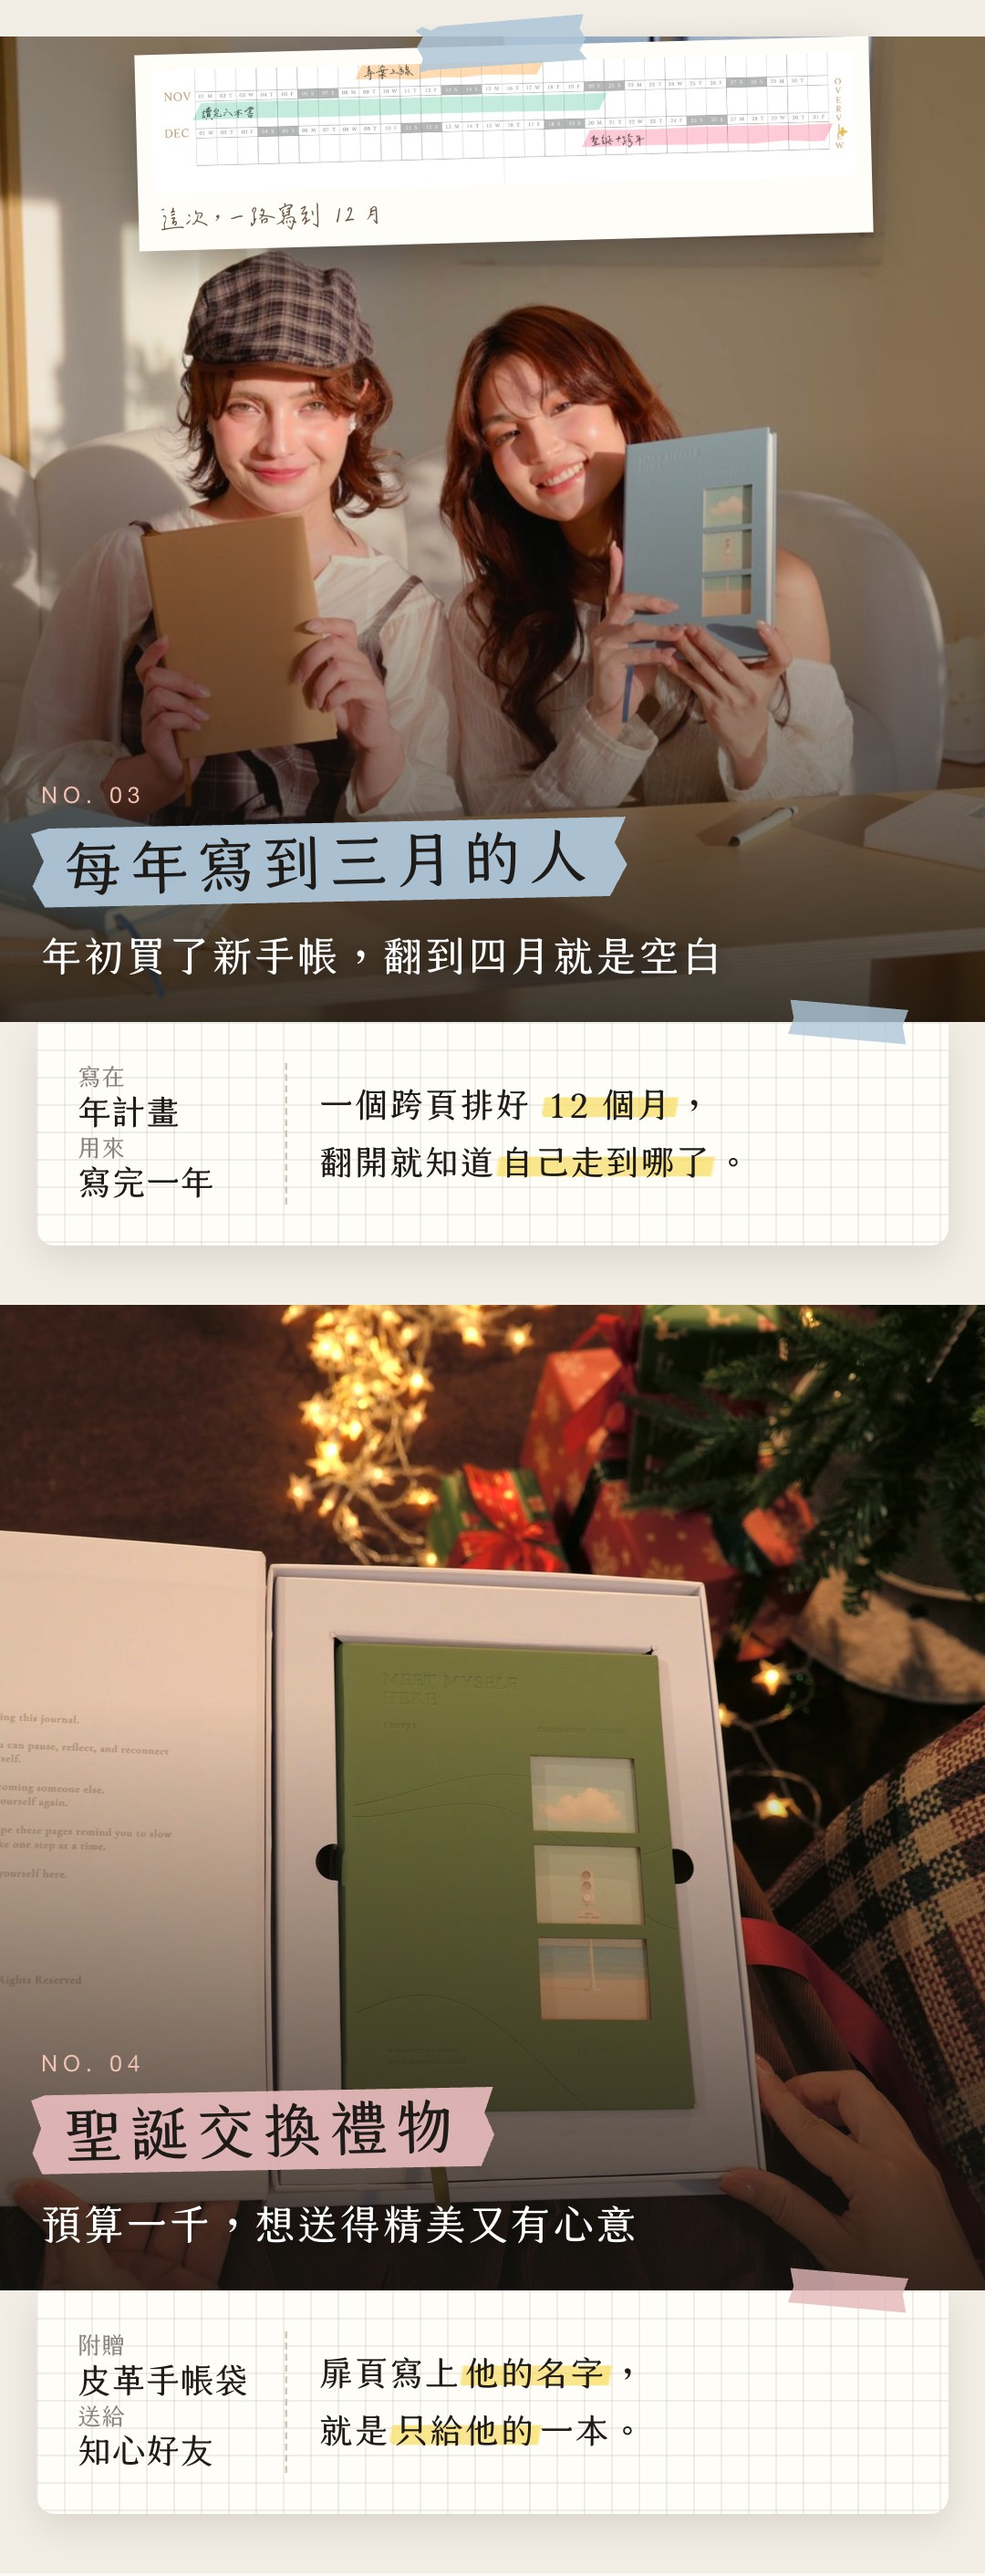
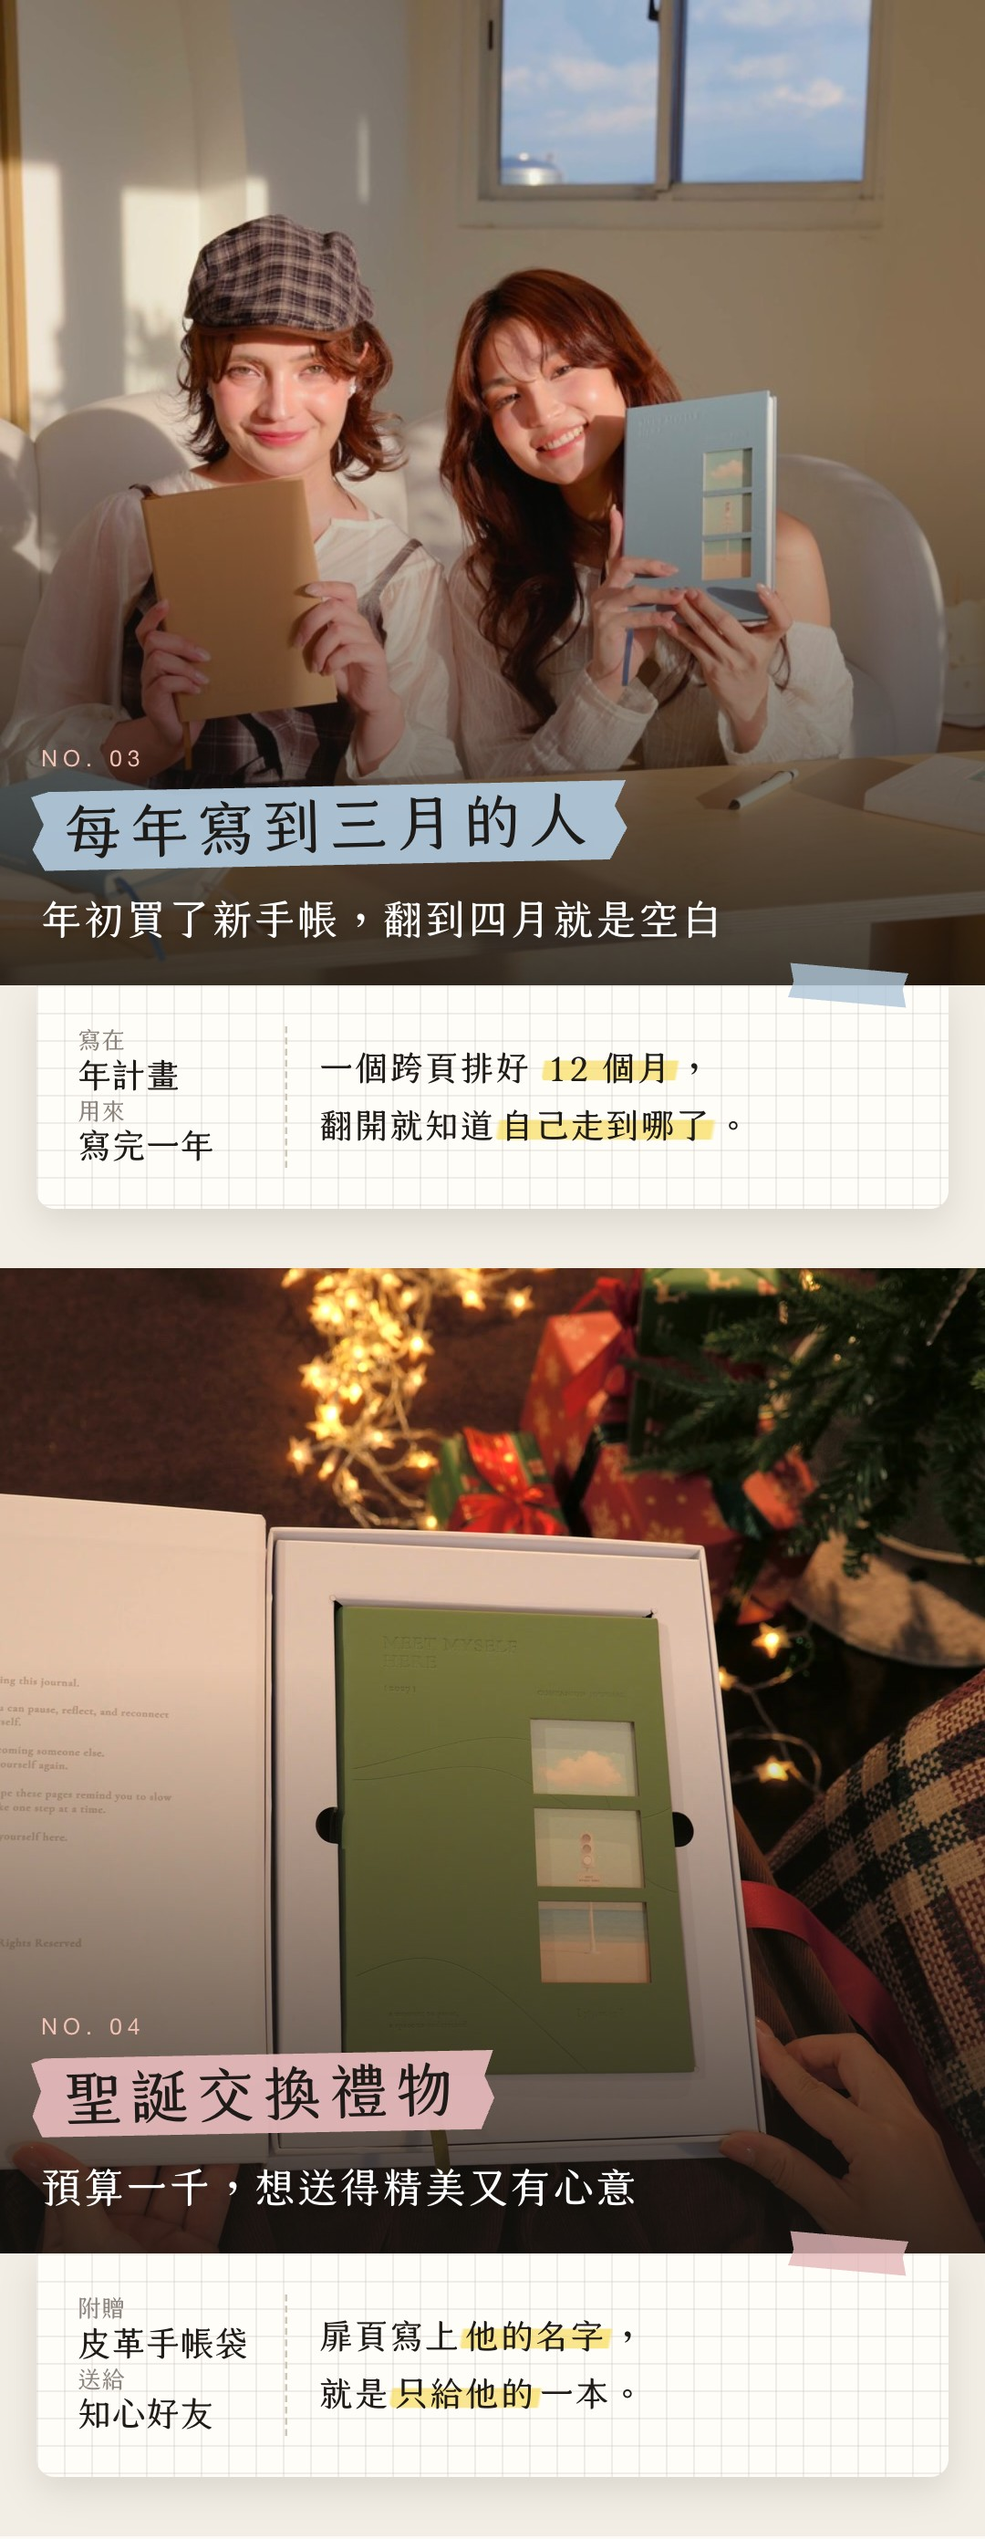
手帳 v11：受眾卡拿掉內頁紙條

diff --git a/_原始檔/v11/page.html b/_原始檔/v11/page.html
@@ -218,7 +218,7 @@ h2{font-size:27px;line-height:1.38;color:var(--ink);text-align:center;letter-spa
   box-shadow:0 1px 2px rgba(0,0,0,.06)}
 .tape.dot{background-image:radial-gradient(rgba(255,255,255,.75) 1.4px,transparent 1.6px);background-size:7px 7px}
 .gridpaper{background-color:#FFFDF8;background-image:linear-gradient(var(--grid) 1px,transparent 1px),linear-gradient(90deg,var(--grid) 1px,transparent 1px);background-size:12px 12px}
-#s03{padding-bottom:0}#s03a{background:var(--paper2);padding:16px 0 26px}#s03 .cd:last-child{margin-bottom:10px!important}
+#s03{padding-bottom:0}#s03a{background:var(--paper2);padding:0 0 26px}
 #s03 .cd,#s03a .cd{margin-bottom:26px}#s03a .cd:last-child{margin-bottom:0}
 .cd .ov .who{border:0;font-size:26px;color:var(--ink);padding:3px 14px 2px;position:relative;margin:6px 0 2px -4px;transform:rotate(-1.5deg);letter-spacing:.12em}
 .cd .ov .who:before{content:"";position:absolute;inset:0;z-index:-1;background:var(--c,var(--tape));opacity:.95;
@@ -311,11 +311,11 @@ h2{font-size:27px;line-height:1.38;color:var(--ink);text-align:center;letter-spa
   <div class="eyebrow">誰適合這本手帳？</div>
   <h2>聖誕禮物 x 交換禮物<br><span class="mark">送禮送到心坎裡</span></h2>
   <div class="lead">一天寫一點，365 天，<br>一整年都是他自己的樣子。</div>
-  <div class="cd" style="--c:var(--tape)"><div class="ph" style="background-image:url(img/q1.jpg)"><div class="note" style="left:12px;top:12px;width:158px;transform:rotate(-3deg)"><span class="tape" style="--c:var(--tape)"></span><img src="img/n_week.jpg"><div class="lb">她的週計畫</div></div><div class="ov"><div class="no en">NO. 01</div><div class="who">行程控上班族</div><h3>開會、待辦、生活瑣事，都寫在同一頁</h3></div></div>
-<div class="tk"><div class="route"><div>寫在<b>週計畫</b></div><div>用來<b>排行程</b></div></div><div><p>左頁<mark>排行程</mark>，右頁<mark>畫進度</mark>，<br>每打一個勾都<mark>好療癒</mark>。</p></div></div></div><div class="cd" style="--c:var(--tape2)"><div class="ph" style="background-image:url(img/q2.jpg)"><div class="note" style="left:164px;top:10px;width:258px;transform:rotate(2.5deg)"><span class="tape" style="--c:var(--tape2)"></span><img src="img/n_reflect.jpg"><div class="lb">她的 1 月覺察</div></div><div class="ov"><div class="no en">NO. 02</div><div class="who">想更懂自己的人</div><h3>每月覺察引導，<br>不只忙碌安排生活、也靜心傾聽自己</h3></div></div>
+  <div class="cd" style="--c:var(--tape)"><div class="ph" style="background-image:url(img/q1.jpg)"><div class="ov"><div class="no en">NO. 01</div><div class="who">行程控上班族</div><h3>開會、待辦、生活瑣事，都寫在同一頁</h3></div></div>
+<div class="tk"><div class="route"><div>寫在<b>週計畫</b></div><div>用來<b>排行程</b></div></div><div><p>左頁<mark>排行程</mark>，右頁<mark>畫進度</mark>，<br>每打一個勾都<mark>好療癒</mark>。</p></div></div></div><div class="cd" style="--c:var(--tape2)"><div class="ph" style="background-image:url(img/q2.jpg)"><div class="ov"><div class="no en">NO. 02</div><div class="who">想更懂自己的人</div><h3>每月覺察引導，<br>不只忙碌安排生活、也靜心傾聽自己</h3></div></div>
 <div class="tk"><div class="route"><div>寫在<b>每月覺察</b></div><div>用來<b>認識自己</b></div></div><div><p><mark>12 個自我覺察主題</mark>，<br>跟著提問寫，<mark>不怕不知道怎麼寫</mark>。</p></div></div></div>
 </section>
-<section id="s03a"><div class="cd" style="--c:var(--tape3)"><div class="ph" style="background-image:url(img/q4.jpg)"><div class="note" style="left:60px;top:4px;width:322px;transform:rotate(-1.5deg)"><span class="tape" style="--c:var(--tape3)"></span><img src="img/n_year.jpg"><div class="lb">這次，一路寫到 12 月</div></div><div class="ov"><div class="no en">NO. 03</div><div class="who">每年寫到三月的人</div><h3>年初買了新手帳，翻到四月就是空白</h3></div></div>
+<section id="s03a"><div class="cd" style="--c:var(--tape3)"><div class="ph" style="background-image:url(img/q4.jpg)"><div class="ov"><div class="no en">NO. 03</div><div class="who">每年寫到三月的人</div><h3>年初買了新手帳，翻到四月就是空白</h3></div></div>
 <div class="tk"><div class="route"><div>寫在<b>年計畫</b></div><div>用來<b>寫完一年</b></div></div><div><p>一個跨頁排好 <mark>12 個月</mark>，<br>翻開就知道<mark>自己走到哪了</mark>。</p></div></div></div><div class="cd" style="--c:var(--tape4)"><div class="ph" style="background-image:url(img/q4gift.jpg)"><div class="ov"><div class="no en">NO. 04</div><div class="who">聖誕交換禮物</div><h3>預算一千，想送得精美又有心意</h3></div></div>
 <div class="tk"><div class="route"><div>附贈<b>皮革手帳袋</b></div><div>送給<b>知心好友</b></div></div><div><p>扉頁寫上<mark>他的名字</mark>，<br>就是<mark>只給他的</mark>一本。</p></div></div></div></section>
 <section id="s03c" class="gift">

diff --git a/index.html b/index.html
@@ -1,23 +1,23 @@
-<!doctype html><meta charset="utf-8"><meta name="viewport" content="width=device-width,initial-scale=1"><title>手帳落地頁 v11</title><style>body{margin:0;background:#888}main{max-width:432px;margin:0 auto;background:#fff}img{display:block;width:100%}</style><main><img src="說明圖_1080寬/03_誰適合這本手帳.jpg?v=1127b">
-<img src="說明圖_1080寬/03a_受眾卡_每年寫到三月_交換禮物.jpg?v=1127b">
-<img src="說明圖_1080寬/03b_聖誕節前到貨_金光_GIF.gif?v=1127b">
-<img src="說明圖_1080寬/03c_送禮範例_打開禮盒_GIF.gif?v=1127b">
-<img src="說明圖_1080寬/03d_先寫第一頁再送_扉頁手寫_GIF.gif?v=1127b">
-<img src="說明圖_1080寬/04_數字列.jpg?v=1127b">
-<img src="說明圖_1080寬/04a_寫不下去的三個瞬間.jpg?v=1127b">
-<img src="說明圖_1080寬/05_章節01_一週.jpg?v=1127b">
-<img src="說明圖_1080寬/05a_週計畫_GIF.gif?v=1127b">
-<img src="說明圖_1080寬/05b_方格頁甘特圖_GIF.gif?v=1127b">
-<img src="說明圖_1080寬/05c_章節02_一個月.jpg?v=1127b">
-<img src="說明圖_1080寬/06_月計畫攤平_GIF.gif?v=1127b">
-<img src="說明圖_1080寬/06x_翻開就平攤_GIF.gif?v=1127b">
-<img src="說明圖_1080寬/06a_每月覺察_GIF.gif?v=1127b">
-<img src="說明圖_1080寬/06b0_章節03_一整年.jpg?v=1127b">
-<img src="說明圖_1080寬/06b_年計畫甘特圖_GIF.gif?v=1127b">
-<img src="說明圖_1080寬/06c_顯化願景板_GIF.gif?v=1127b">
-<img src="說明圖_1080寬/07_開窗封面推照片進去_GIF.gif?v=1127b">
-<img src="說明圖_1080寬/08_翻開這一年_GIF.gif?v=1127b">
-<img src="說明圖_1080寬/09_手帳人自我檢查表.jpg?v=1127b">
-<img src="說明圖_1080寬/10_四種顏色兩種款式_輪播_GIF.gif?v=1127b">
-<img src="說明圖_1080寬/11_規格.jpg?v=1127b">
-<img src="說明圖_1080寬/12_轉折.jpg?v=1127b"></main>
+<!doctype html><meta charset="utf-8"><meta name="viewport" content="width=device-width,initial-scale=1"><title>手帳落地頁 v11</title><style>body{margin:0;background:#888}main{max-width:432px;margin:0 auto;background:#fff}img{display:block;width:100%}</style><main><img src="說明圖_1080寬/03_誰適合這本手帳.jpg?v=1127c">
+<img src="說明圖_1080寬/03a_受眾卡_每年寫到三月_交換禮物.jpg?v=1127c">
+<img src="說明圖_1080寬/03b_聖誕節前到貨_金光_GIF.gif?v=1127c">
+<img src="說明圖_1080寬/03c_送禮範例_打開禮盒_GIF.gif?v=1127c">
+<img src="說明圖_1080寬/03d_先寫第一頁再送_扉頁手寫_GIF.gif?v=1127c">
+<img src="說明圖_1080寬/04_數字列.jpg?v=1127c">
+<img src="說明圖_1080寬/04a_寫不下去的三個瞬間.jpg?v=1127c">
+<img src="說明圖_1080寬/05_章節01_一週.jpg?v=1127c">
+<img src="說明圖_1080寬/05a_週計畫_GIF.gif?v=1127c">
+<img src="說明圖_1080寬/05b_方格頁甘特圖_GIF.gif?v=1127c">
+<img src="說明圖_1080寬/05c_章節02_一個月.jpg?v=1127c">
+<img src="說明圖_1080寬/06_月計畫攤平_GIF.gif?v=1127c">
+<img src="說明圖_1080寬/06x_翻開就平攤_GIF.gif?v=1127c">
+<img src="說明圖_1080寬/06a_每月覺察_GIF.gif?v=1127c">
+<img src="說明圖_1080寬/06b0_章節03_一整年.jpg?v=1127c">
+<img src="說明圖_1080寬/06b_年計畫甘特圖_GIF.gif?v=1127c">
+<img src="說明圖_1080寬/06c_顯化願景板_GIF.gif?v=1127c">
+<img src="說明圖_1080寬/07_開窗封面推照片進去_GIF.gif?v=1127c">
+<img src="說明圖_1080寬/08_翻開這一年_GIF.gif?v=1127c">
+<img src="說明圖_1080寬/09_手帳人自我檢查表.jpg?v=1127c">
+<img src="說明圖_1080寬/10_四種顏色兩種款式_輪播_GIF.gif?v=1127c">
+<img src="說明圖_1080寬/11_規格.jpg?v=1127c">
+<img src="說明圖_1080寬/12_轉折.jpg?v=1127c"></main>

diff --git a/_原始檔/v11/build_v11.py b/_原始檔/v11/build_v11.py
@@ -11,7 +11,7 @@ EXTRA = r'''
   box-shadow:0 1px 2px rgba(0,0,0,.06)}
 .tape.dot{background-image:radial-gradient(rgba(255,255,255,.75) 1.4px,transparent 1.6px);background-size:7px 7px}
 .gridpaper{background-color:#FFFDF8;background-image:linear-gradient(var(--grid) 1px,transparent 1px),linear-gradient(90deg,var(--grid) 1px,transparent 1px);background-size:12px 12px}
-#s03{padding-bottom:0}#s03a{background:var(--paper2);padding:16px 0 26px}#s03 .cd:last-child{margin-bottom:10px!important}
+#s03{padding-bottom:0}#s03a{background:var(--paper2);padding:0 0 26px}
 #s03 .cd,#s03a .cd{margin-bottom:26px}#s03a .cd:last-child{margin-bottom:0}
 .cd .ov .who{border:0;font-size:26px;color:var(--ink);padding:3px 14px 2px;position:relative;margin:6px 0 2px -4px;transform:rotate(-1.5deg);letter-spacing:.12em}
 .cd .ov .who:before{content:"";position:absolute;inset:0;z-index:-1;background:var(--c,var(--tape));opacity:.95;
@@ -106,13 +106,13 @@ def note(src, x, y, w, rot, lb, c='--tape'):
 P = [
  dict(n='01', who='行程控上班族', c='--tape', h='開會、待辦、生活瑣事，都寫在同一頁', k1='寫在', v1='週計畫', k2='用來', v2='排行程',
       p='左頁<mark>排行程</mark>，右頁<mark>畫進度</mark>，<br>每打一個勾都<mark>好療癒</mark>。', img='img/q1.jpg',
-      note=note('img/n_week.jpg', 12, 12, 158, -3, '她的週計畫'),),
+      note='',),
  dict(n='02', who='想更懂自己的人', c='--tape2', h='每月覺察引導，<br>不只忙碌安排生活、也靜心傾聽自己', k1='寫在', v1='每月覺察', k2='用來', v2='認識自己',
       p='<mark>12 個自我覺察主題</mark>，<br>跟著提問寫，<mark>不怕不知道怎麼寫</mark>。', img='img/q2.jpg',
-      note=note('img/n_reflect.jpg', 164, 10, 258, 2.5, '她的 1 月覺察', '--tape2')),
+      note=''),
  dict(n='03', who='每年寫到三月的人', c='--tape3', h='年初買了新手帳，翻到四月就是空白', k1='寫在', v1='年計畫', k2='用來', v2='寫完一年',
       p='一個跨頁排好 <mark>12 個月</mark>，<br>翻開就知道<mark>自己走到哪了</mark>。', img='img/q4.jpg',
-      note=note('img/n_year.jpg', 60, 4, 322, -1.5, '這次，一路寫到 12 月', '--tape3')),
+      note=''),
  dict(n='04', who='聖誕交換禮物', c='--tape4', h='預算一千，想送得精美又有心意', k1='附贈', v1='皮革手帳袋', k2='送給', v2='知心好友',
       p='扉頁寫上<mark>他的名字</mark>，<br>就是<mark>只給他的</mark>一本。', img='img/q4gift.jpg', note=''),
 ]

diff --git a/README.md b/README.md
@@ -53,3 +53,8 @@
 - NO.02、NO.03 紙條放大：NO.02 改到右上、寬 258；NO.03 橫跨上方、寬 322，年計畫紙條改裁 11–12 月兩列讓字變大。
 - NO.04 刪除紙條（扉頁內容留在 03d 示範）。
 - 03a 上方加 16px 留白，NO.03 紙條的紙膠帶才不會被切掉；03 最後一張卡下方改 10px，接起來的間距不變。
+
+## 11/27 第三輪（阿寧：「內頁卡都拿掉」）
+- 03、03a 四張受眾卡的手寫紙條全部拿掉，照片乾淨呈現；紙膠帶名牌、方格紙票根保留。資料夾名稱裡的「受眾卡加手寫紙條」是當初的版本名，現在已不放紙條。
+- 03a 上方留白還原（不再需要讓紙膠帶露出）。
+- 手寫內頁仍出現在 03d 扉頁動圖、04a 痛點示範、HOW TO USE 動圖。
